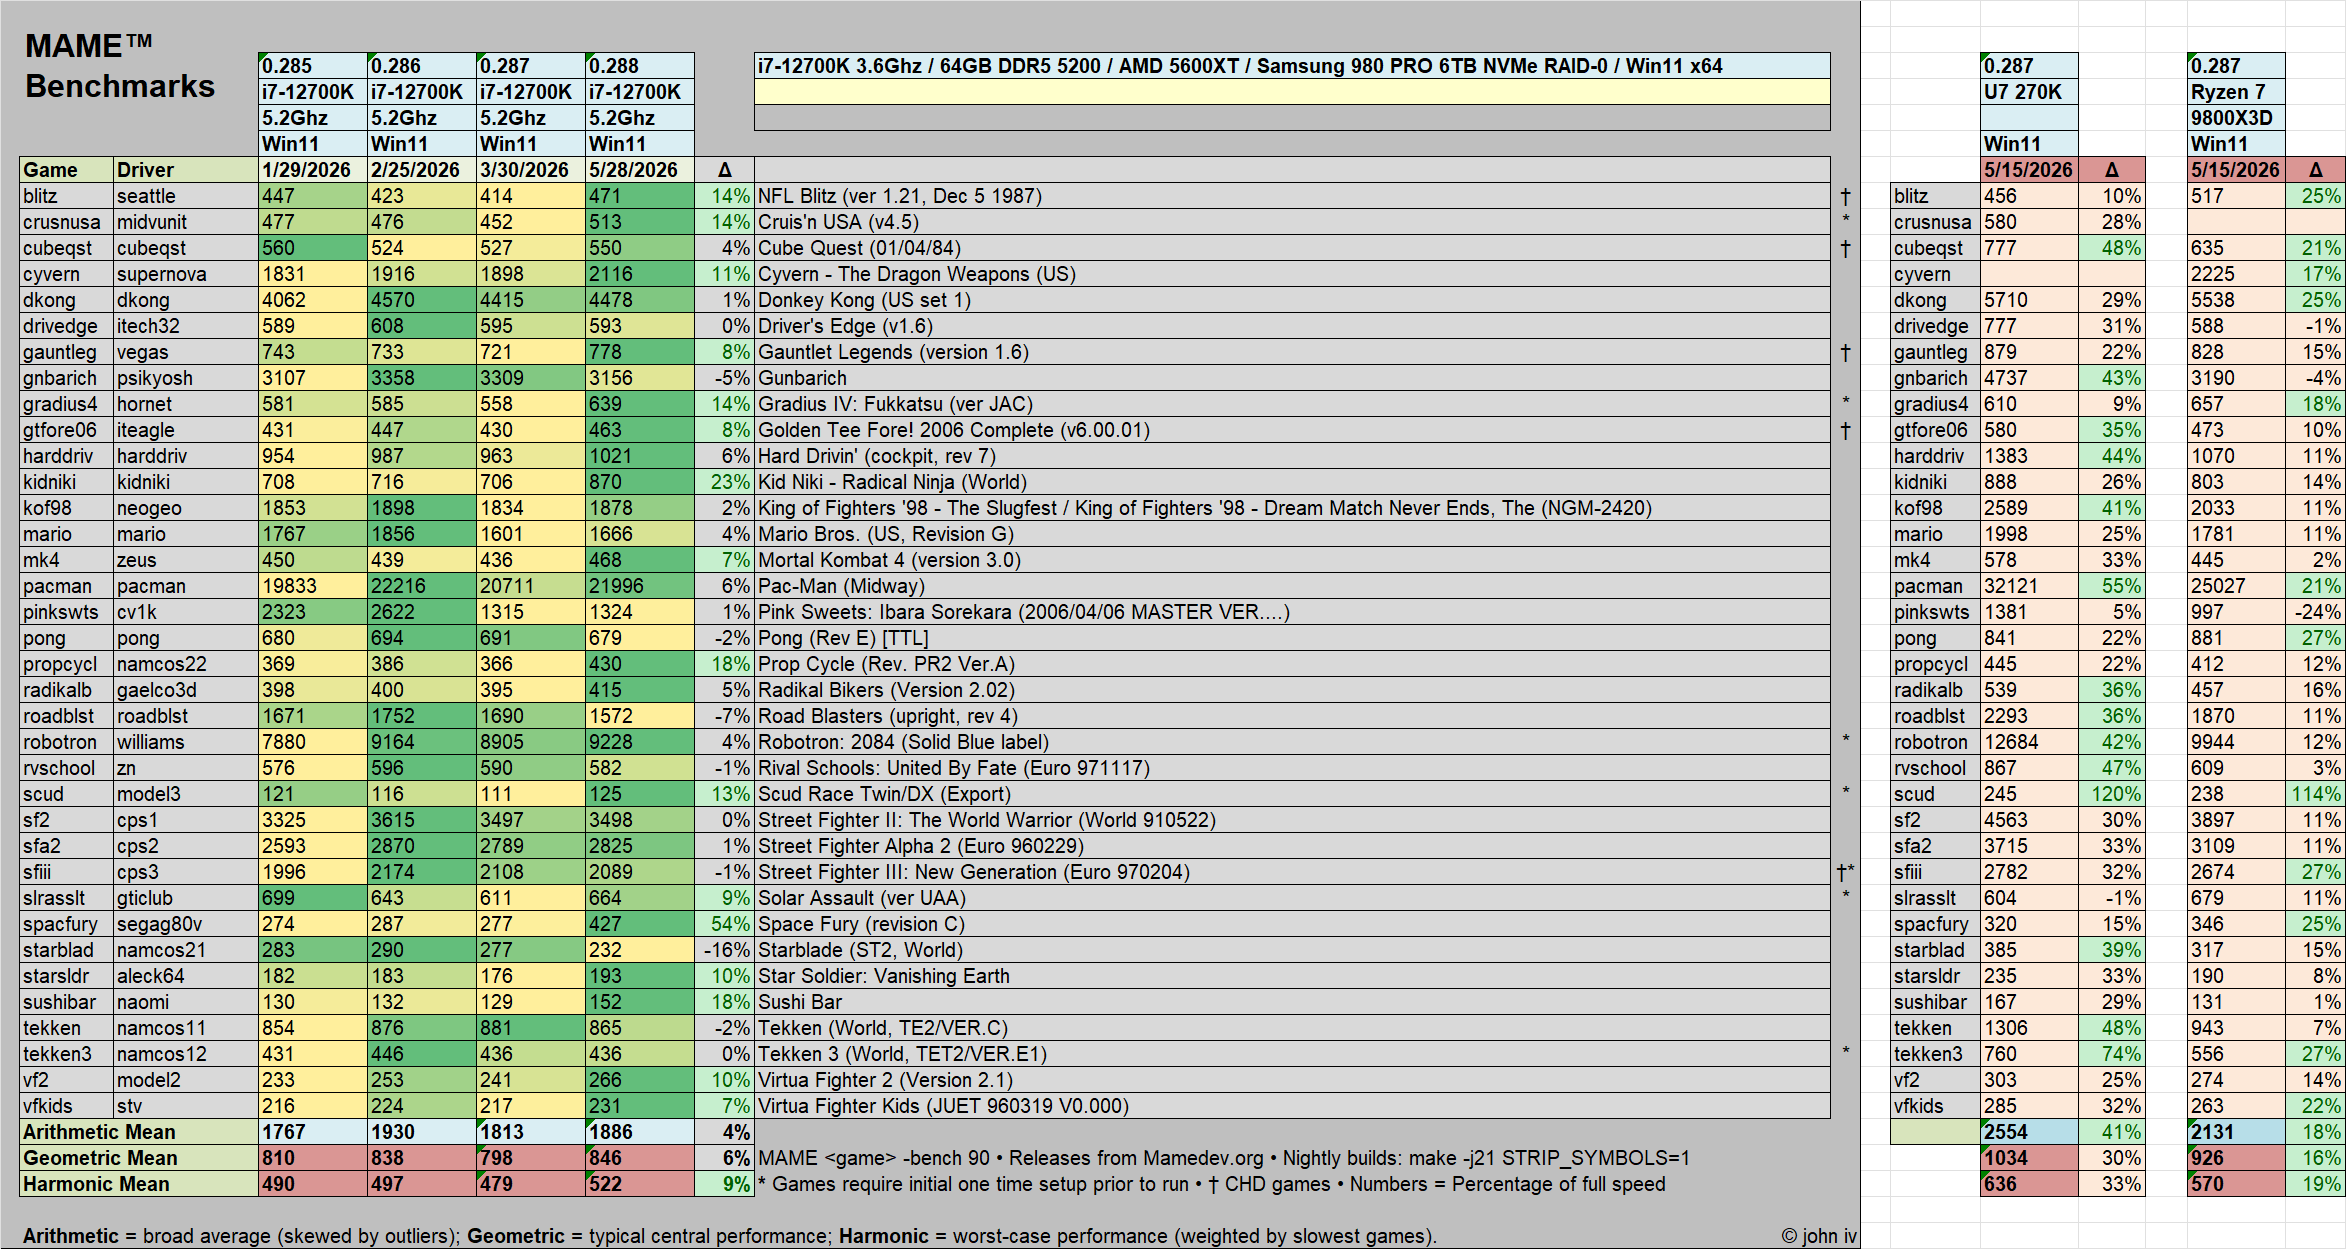
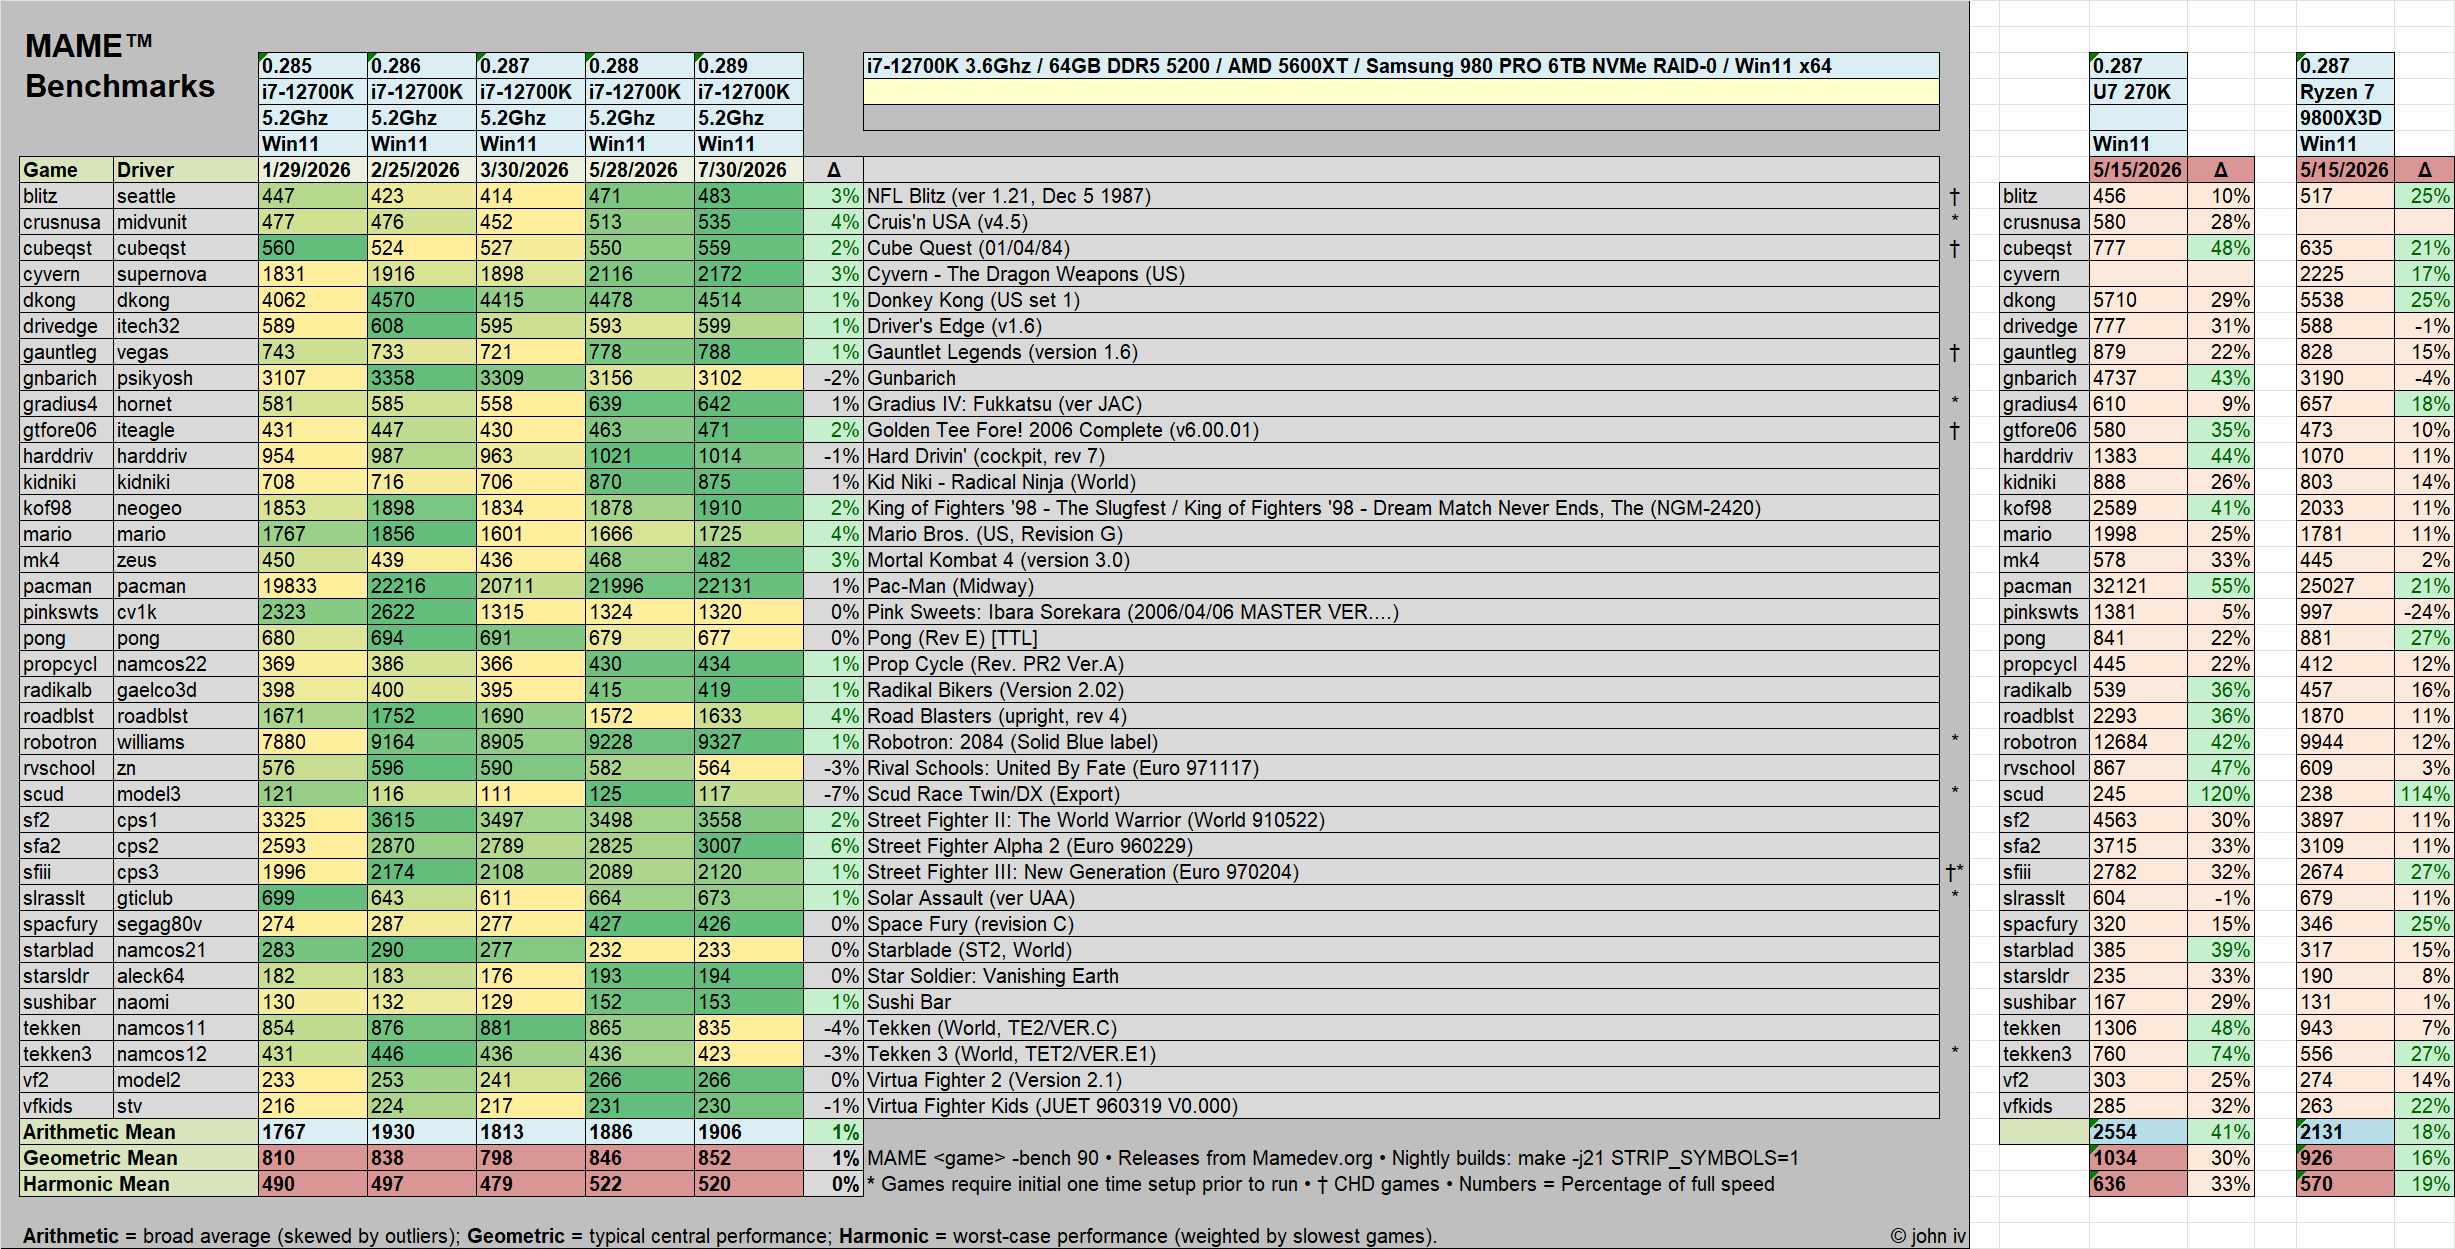
Add files via upload

Changed region(s): [[0.0, 0.0312, 0.7468, 0.9992], [0.7468, 0.0, 1.0, 1.0]]

diff --git a/release.js b/release.js
@@ -2,11 +2,11 @@
    Bump per release; buildId is the field that drives the update check. */
 var IVPLAY = {
     version:    "2.8.10",
-    buildId:    "963c63df-1347-403c-af3a-4f4e64faa7c2",
+    buildId:    "5db83e44-1d5c-4b87-9e43-bf732b927c4cs",
     date:       "11:12 AM 7/23/2026",
     url:        "https://github.com/john-iv/iv-play/releases",
-    artMameVer: "0.288",
-    artDate:    "9:23 PM 5/28/2026",
+    artMameVer: "0.289",
+    artDate:    "5:54 PM 7/30/2026",
     notes: [
         "DPI & Layout Modernization",
         "Internal HiScore.ini",
